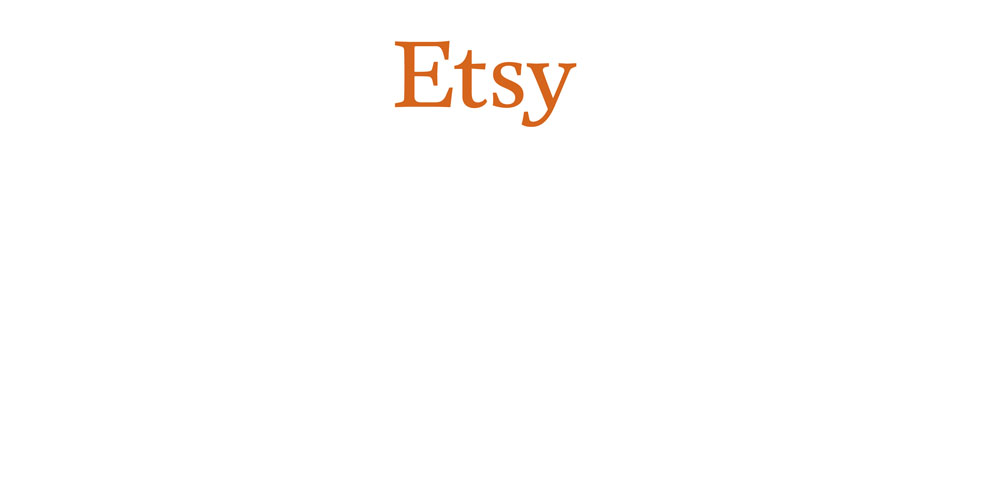
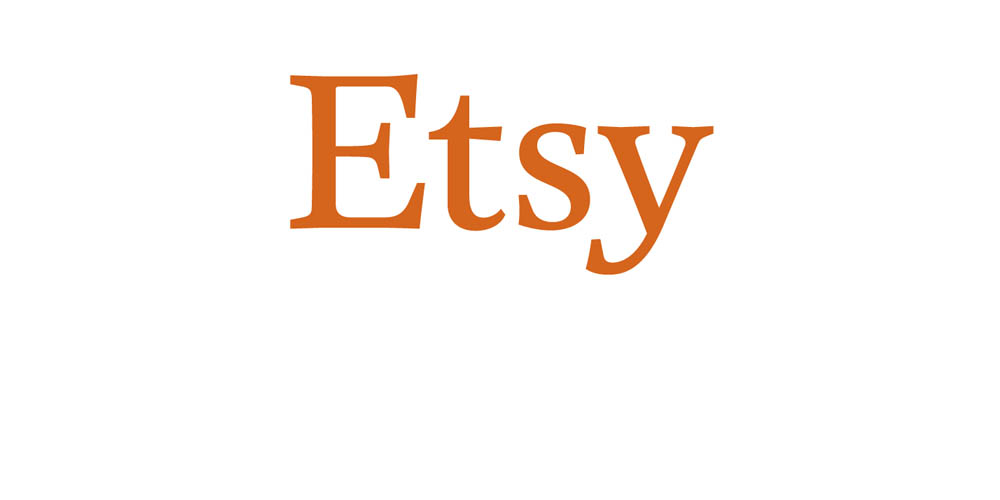
Modified partner pictures so they fill slider viewport. Fixed bug where sliders wouldn't load on page load. Fixed bug where partners slider would disappear at last slide.

Changed region(s): [[0.279, 0.06, 0.713, 0.57]]

diff --git a/beta/index.php b/beta/index.php
@@ -160,7 +160,7 @@ $(document).ready(function() {
 
         <div id="teamCarousel" class="carousel slide" data-interval="6000">
             <div class="carousel-inner">
-                <div class="item">
+                <div class="item active">
                     <img src="img/tristan.jpg" alt="">
                     <div class="carousel-title">
                         <h3>Tristan Walker</h3><h4> | Founder, Chairman</h4>
@@ -234,11 +234,6 @@ $(document).ready(function() {
                         <p>Amy Schapiro comes to CODE:2040 with experience in non-profit program and organizational development with high-risk communities. She received her Bachelor’s from Emory University and then worked as an educator for the Madrid Department of Education as well as at a Boys and Girls Club in the Bay Area. She subsequently managed the roll-out of a national digital corporate responsibility campaign focused on community development through youth activism at a technology start-up, in partnership with Nike. Amy later designed workforce development programs and worked in grant making in New York City while completing her Master’s of Science in Social Work from Columbia University. She is fluent in Spanish and passionate about breaking cycles of poverty through providing awareness and access to meaningful educational and professional opportunities for young people.</p>
                     </div>
                 </div>
-
-
-
-
-
             </div>
             <a class="left carousel-control" href="#teamCarousel" data-slide="prev">‹</a>
             <a class="right carousel-control" href="#teamCarousel" data-slide="next">›</a>
@@ -270,7 +265,7 @@ $(document).ready(function() {
         <p>The CODE2040 program wouldn't be possible without the help of our fantastic partners, who have offered their resources and time to our organization. We are incredibly thankful for their help.</p>
         <div id="partnerCarousel" class="carousel slide" data-interval="6000">
             <div class="carousel-inner">
-                <div class="item">
+                <div class="item active">
                     <img src="img/kauffman.jpg" alt="">
                     <div class="carousel-caption">
                         <p>The Ewing Marion Kauffman Foundation was established in the mid-1960s by the late entrepreneur and philanthropist Ewing Marion Kauffman. Based in Kansas City, Missouri, the Kauffman Foundation is among the thirty largest foundations in the United States with an asset base of approximately $2 billion. The foundation's vision is to foster “a society of economically independent individuals who are engaged citizens, contributing to the improvement of their communities.” In service of this vision, and in keeping with its founder’s wishes, the foundation focuses our grant making and operations on two areas: advancing entrepreneurship and improving the education of children and youth. We carry out our mission through four programmatic areas: Entrepreneurship, Advancing Innovation, Education, and Research and Policy.</p>
@@ -320,12 +315,9 @@ $(document).ready(function() {
                         <p>Silicon Valley Community Foundation makes all forms of philanthropy more powerful. The Silicon Valley Community Foundation serves as a catalyst and leader for innovative solutions to the region’s most challenging problems. The community foundation has more than $2 billion in assets under management and more than 1,500 philanthropic funds. As Silicon Valley’s center of philanthropy, the foundation provides individuals, families and corporations with simple and effective ways to give locally and around the world. Find out more at www.siliconvalleycf.org</p>
                     </div>
                 </div>
-
-
-
+            </div>
             <a class="left carousel-control" href="#partnerCarousel" data-slide="prev">‹</a>
             <a class="right carousel-control" href="#partnerCarousel" data-slide="next">›</a>
-        </div>
     </div>
 </div>
 </div>
